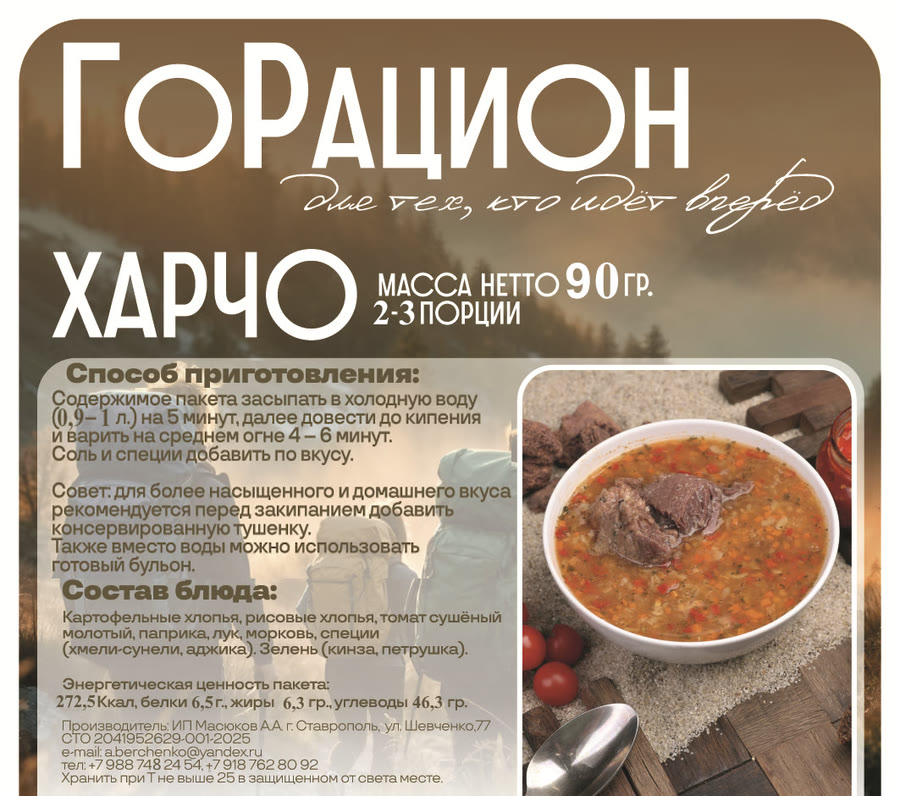
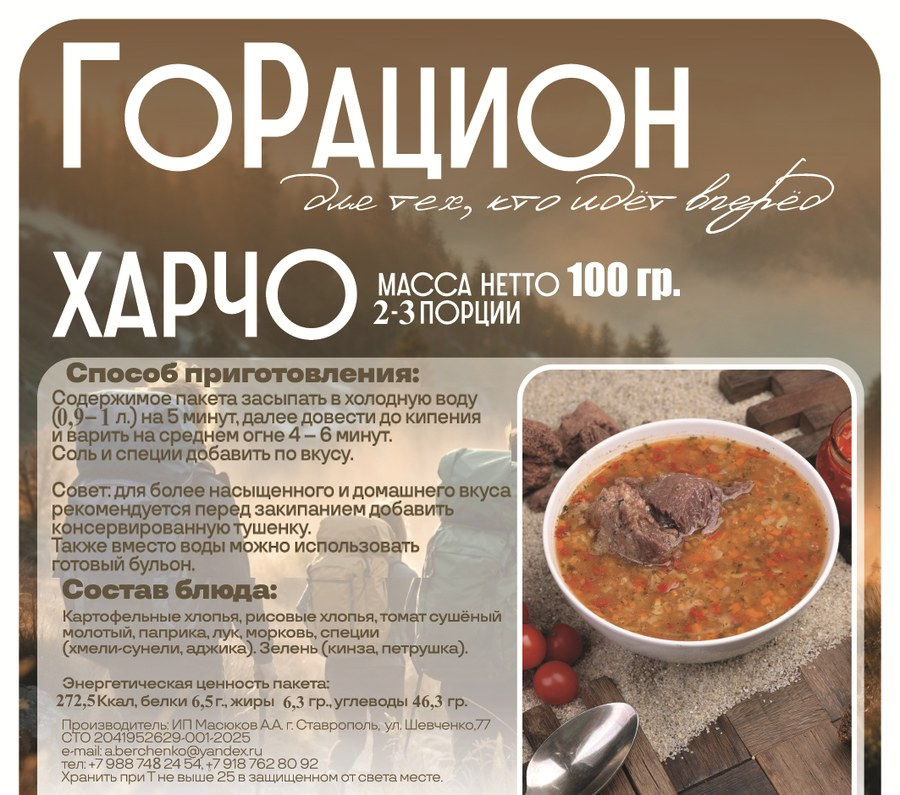
Фотогалерея 29 фото, новая этикетка харчо 100 г

Changed region(s): [[0.6222, 0.3321, 0.7467, 0.3925]]

diff --git a/index.html b/index.html
@@ -172,12 +172,45 @@
     </div>
     <div class="trips">
       <h3 class="trips-h">Команда ГоРацион в походах</h3>
-      <ul class="trips-grid">
-        <li><img src="assets/photo/team-1.jpg" width="1000" height="750" alt="Туристы в изморози после ночи в горах" loading="lazy"></li>
-        <li><img src="assets/photo/team-2.jpg" width="1000" height="750" alt="Трое туристов с рюкзаками идут по тропе" loading="lazy"></li>
-        <li><img src="assets/photo/team-3.jpg" width="1000" height="750" alt="Туристы отдыхают на лугу у соснового леса" loading="lazy"></li>
-        <li><img src="assets/photo/team-4.jpg" width="1000" height="750" alt="Туристы готовят еду на горелке в горах" loading="lazy"></li>
+      <ul class="gallery" id="gallery">
+        <li><button type="button" class="g-item" data-full="assets/gallery/g01.jpg" data-w="1800" data-h="798" aria-label="Открыть фото 1 из 29"><img src="assets/gallery/g01-s.jpg" width="720" height="319" alt="Фото из похода команды ГоРацион, 1" loading="lazy"></button></li>
+        <li><button type="button" class="g-item" data-full="assets/gallery/g02.jpg" data-w="1800" data-h="1013" aria-label="Открыть фото 2 из 29"><img src="assets/gallery/g02-s.jpg" width="720" height="405" alt="Фото из похода команды ГоРацион, 2" loading="lazy"></button></li>
+        <li><button type="button" class="g-item" data-full="assets/gallery/g03.jpg" data-w="1800" data-h="1350" aria-label="Открыть фото 3 из 29"><img src="assets/gallery/g03-s.jpg" width="720" height="540" alt="Фото из похода команды ГоРацион, 3" loading="lazy"></button></li>
+        <li><button type="button" class="g-item" data-full="assets/gallery/g04.jpg" data-w="1800" data-h="1350" aria-label="Открыть фото 4 из 29"><img src="assets/gallery/g04-s.jpg" width="720" height="540" alt="Фото из похода команды ГоРацион, 4" loading="lazy"></button></li>
+        <li><button type="button" class="g-item" data-full="assets/gallery/g05.jpg" data-w="1800" data-h="1013" aria-label="Открыть фото 5 из 29"><img src="assets/gallery/g05-s.jpg" width="720" height="405" alt="Фото из похода команды ГоРацион, 5" loading="lazy"></button></li>
+        <li><button type="button" class="g-item" data-full="assets/gallery/g06.jpg" data-w="1800" data-h="1013" aria-label="Открыть фото 6 из 29"><img src="assets/gallery/g06-s.jpg" width="720" height="405" alt="Фото из похода команды ГоРацион, 6" loading="lazy"></button></li>
+        <li><button type="button" class="g-item" data-full="assets/gallery/g07.jpg" data-w="1800" data-h="1013" aria-label="Открыть фото 7 из 29"><img src="assets/gallery/g07-s.jpg" width="720" height="405" alt="Фото из похода команды ГоРацион, 7" loading="lazy"></button></li>
+        <li><button type="button" class="g-item" data-full="assets/gallery/g08.jpg" data-w="1800" data-h="810" aria-label="Открыть фото 8 из 29"><img src="assets/gallery/g08-s.jpg" width="720" height="324" alt="Фото из похода команды ГоРацион, 8" loading="lazy"></button></li>
+        <li><button type="button" class="g-item" data-full="assets/gallery/g09.jpg" data-w="1800" data-h="810" aria-label="Открыть фото 9 из 29"><img src="assets/gallery/g09-s.jpg" width="720" height="324" alt="Фото из похода команды ГоРацион, 9" loading="lazy"></button></li>
+        <li><button type="button" class="g-item" data-full="assets/gallery/g10.jpg" data-w="1800" data-h="810" aria-label="Открыть фото 10 из 29"><img src="assets/gallery/g10-s.jpg" width="720" height="324" alt="Фото из похода команды ГоРацион, 10" loading="lazy"></button></li>
+        <li><button type="button" class="g-item" data-full="assets/gallery/g11.jpg" data-w="1012" data-h="1800" aria-label="Открыть фото 11 из 29"><img src="assets/gallery/g11-s.jpg" width="405" height="720" alt="Фото из похода команды ГоРацион, 11" loading="lazy"></button></li>
+        <li><button type="button" class="g-item" data-full="assets/gallery/g12.jpg" data-w="1800" data-h="1013" aria-label="Открыть фото 12 из 29"><img src="assets/gallery/g12-s.jpg" width="720" height="405" alt="Фото из похода команды ГоРацион, 12" loading="lazy"></button></li>
+        <li class="g-more"><button type="button" class="g-item" data-full="assets/gallery/g13.jpg" data-w="1800" data-h="1013" aria-label="Открыть фото 13 из 29"><img src="assets/gallery/g13-s.jpg" width="720" height="405" alt="Фото из похода команды ГоРацион, 13" loading="lazy"></button></li>
+        <li class="g-more"><button type="button" class="g-item" data-full="assets/gallery/g14.jpg" data-w="1800" data-h="1013" aria-label="Открыть фото 14 из 29"><img src="assets/gallery/g14-s.jpg" width="720" height="405" alt="Фото из похода команды ГоРацион, 14" loading="lazy"></button></li>
+        <li class="g-more"><button type="button" class="g-item" data-full="assets/gallery/g15.jpg" data-w="1800" data-h="798" aria-label="Открыть фото 15 из 29"><img src="assets/gallery/g15-s.jpg" width="720" height="319" alt="Фото из похода команды ГоРацион, 15" loading="lazy"></button></li>
+        <li class="g-more"><button type="button" class="g-item" data-full="assets/gallery/g16.jpg" data-w="1800" data-h="1013" aria-label="Открыть фото 16 из 29"><img src="assets/gallery/g16-s.jpg" width="720" height="405" alt="Фото из похода команды ГоРацион, 16" loading="lazy"></button></li>
+        <li class="g-more"><button type="button" class="g-item" data-full="assets/gallery/g17.jpg" data-w="1800" data-h="1013" aria-label="Открыть фото 17 из 29"><img src="assets/gallery/g17-s.jpg" width="720" height="405" alt="Фото из похода команды ГоРацион, 17" loading="lazy"></button></li>
+        <li class="g-more"><button type="button" class="g-item" data-full="assets/gallery/g18.jpg" data-w="1800" data-h="1013" aria-label="Открыть фото 18 из 29"><img src="assets/gallery/g18-s.jpg" width="720" height="405" alt="Фото из похода команды ГоРацион, 18" loading="lazy"></button></li>
+        <li class="g-more"><button type="button" class="g-item" data-full="assets/gallery/g19.jpg" data-w="1800" data-h="1013" aria-label="Открыть фото 19 из 29"><img src="assets/gallery/g19-s.jpg" width="720" height="405" alt="Фото из похода команды ГоРацион, 19" loading="lazy"></button></li>
+        <li class="g-more"><button type="button" class="g-item" data-full="assets/gallery/g20.jpg" data-w="1800" data-h="1013" aria-label="Открыть фото 20 из 29"><img src="assets/gallery/g20-s.jpg" width="720" height="405" alt="Фото из похода команды ГоРацион, 20" loading="lazy"></button></li>
+        <li class="g-more"><button type="button" class="g-item" data-full="assets/gallery/g21.jpg" data-w="1800" data-h="1013" aria-label="Открыть фото 21 из 29"><img src="assets/gallery/g21-s.jpg" width="720" height="405" alt="Фото из похода команды ГоРацион, 21" loading="lazy"></button></li>
+        <li class="g-more"><button type="button" class="g-item" data-full="assets/gallery/g22.jpg" data-w="1800" data-h="1013" aria-label="Открыть фото 22 из 29"><img src="assets/gallery/g22-s.jpg" width="720" height="405" alt="Фото из похода команды ГоРацион, 22" loading="lazy"></button></li>
+        <li class="g-more"><button type="button" class="g-item" data-full="assets/gallery/g23.jpg" data-w="1800" data-h="1013" aria-label="Открыть фото 23 из 29"><img src="assets/gallery/g23-s.jpg" width="720" height="405" alt="Фото из похода команды ГоРацион, 23" loading="lazy"></button></li>
+        <li class="g-more"><button type="button" class="g-item" data-full="assets/gallery/g24.jpg" data-w="1800" data-h="1013" aria-label="Открыть фото 24 из 29"><img src="assets/gallery/g24-s.jpg" width="720" height="405" alt="Фото из похода команды ГоРацион, 24" loading="lazy"></button></li>
+        <li class="g-more"><button type="button" class="g-item" data-full="assets/gallery/g25.jpg" data-w="1800" data-h="1350" aria-label="Открыть фото 25 из 29"><img src="assets/gallery/g25-s.jpg" width="720" height="540" alt="Фото из похода команды ГоРацион, 25" loading="lazy"></button></li>
+        <li class="g-more"><button type="button" class="g-item" data-full="assets/gallery/g26.jpg" data-w="1800" data-h="1013" aria-label="Открыть фото 26 из 29"><img src="assets/gallery/g26-s.jpg" width="720" height="405" alt="Фото из похода команды ГоРацион, 26" loading="lazy"></button></li>
+        <li class="g-more"><button type="button" class="g-item" data-full="assets/gallery/g27.jpg" data-w="1800" data-h="1013" aria-label="Открыть фото 27 из 29"><img src="assets/gallery/g27-s.jpg" width="720" height="405" alt="Фото из похода команды ГоРацион, 27" loading="lazy"></button></li>
+        <li class="g-more"><button type="button" class="g-item" data-full="assets/gallery/g28.jpg" data-w="1800" data-h="1013" aria-label="Открыть фото 28 из 29"><img src="assets/gallery/g28-s.jpg" width="720" height="405" alt="Фото из похода команды ГоРацион, 28" loading="lazy"></button></li>
+        <li class="g-more"><button type="button" class="g-item" data-full="assets/gallery/g29.jpg" data-w="1800" data-h="1013" aria-label="Открыть фото 29 из 29"><img src="assets/gallery/g29-s.jpg" width="720" height="405" alt="Фото из похода команды ГоРацион, 29" loading="lazy"></button></li>
       </ul>
+      <button type="button" class="btn btn-glass gallery-more" id="galleryMore">Показать все фото (29)</button>
+    </div>
+    <div class="lightbox" id="lightbox" hidden role="dialog" aria-modal="true" aria-label="Просмотр фото">
+      <button type="button" class="lb-close" id="lbClose" aria-label="Закрыть">&times;</button>
+      <button type="button" class="lb-nav lb-prev" id="lbPrev" aria-label="Предыдущее фото">&#8249;</button>
+      <img id="lbImg" alt="">
+      <button type="button" class="lb-nav lb-next" id="lbNext" aria-label="Следующее фото">&#8250;</button>
+      <p class="lb-count" id="lbCount"></p>
     </div>
   </div>
 </section>

diff --git a/style.css b/style.css
@@ -360,3 +360,25 @@ button.size.is-on{border-color:var(--color-pine)}
 .hero-in>.hero-offer{order:4;align-self:center;margin:14px 20px 96px;padding:.5em 1.3em .45em;border-radius:99px;background:rgba(255,255,255,.16);border:1px solid rgba(255,255,255,.45);color:#fff;font-family:var(--font-display);font-size:1.35rem;line-height:1.15;text-align:center;backdrop-filter:blur(6px);-webkit-backdrop-filter:blur(6px)}
 .hero-offer b{color:var(--color-gold);font-weight:700}
 @media (max-width:520px){.hero-in>.hero-offer{font-size:1.15rem;margin:12px 14px 100px}}
+
+/* фотогалерея */
+.gallery{column-count:4;column-gap:12px}
+.gallery li{break-inside:avoid;margin-bottom:12px}
+.gallery li.g-more{display:none}
+.gallery.is-open li.g-more{display:block}
+.g-item{display:block;width:100%;padding:0;border:0;background:none;cursor:zoom-in;border-radius:14px;overflow:hidden;box-shadow:0 14px 28px -20px rgba(11,47,39,.6)}
+.g-item img{width:100%;height:auto;display:block;transition:transform .5s var(--ease-out)}
+.g-item:hover img{transform:scale(1.04)}
+.gallery-more{margin-top:10px;background:var(--color-pine);color:#fff}
+.gallery-more[hidden]{display:none}
+.lightbox{position:fixed;inset:0;z-index:200;background:rgba(7,22,18,.94);display:flex;align-items:center;justify-content:center;padding:clamp(10px,3vw,40px)}
+.lightbox[hidden]{display:none}
+.lightbox img{max-width:100%;max-height:100%;width:auto;height:auto;object-fit:contain;border-radius:8px}
+.lb-close,.lb-nav{position:absolute;border:0;background:rgba(255,255,255,.14);color:#fff;cursor:pointer;line-height:1;border-radius:50%;width:48px;height:48px;font-size:2rem}
+.lb-close{top:14px;right:14px}
+.lb-nav{top:50%;transform:translateY(-50%)}
+.lb-prev{left:14px}.lb-next{right:14px}
+.lb-close:hover,.lb-nav:hover{background:rgba(255,255,255,.28)}
+.lb-count{position:absolute;bottom:14px;left:0;right:0;text-align:center;color:#cfe0d8;font-family:var(--font-display);font-size:1.2rem}
+@media (max-width:900px){.gallery{column-count:3}}
+@media (max-width:520px){.gallery{column-count:2;column-gap:8px}.gallery li{margin-bottom:8px}.lb-nav{width:40px;height:40px}}

diff --git a/main.js b/main.js
@@ -153,5 +153,40 @@
     soundBtn.querySelector('span').textContent = on ? 'Выключить звук' : 'Включить звук';
     if (on && video.paused && !userPaused) video.play();
   });
+
+  // фотогалерея с увеличением
+  var gal = $('#gallery');
+  if (gal) {
+    var gItems = $$('.g-item', gal), gMore = $('#galleryMore');
+    var lb = $('#lightbox'), lbImg = $('#lbImg'), lbCount = $('#lbCount'), gi = 0;
+    if (gMore) gMore.addEventListener('click', function () { gal.classList.add('is-open'); gMore.hidden = true; });
+    function lbShow(i) {
+      gi = (i + gItems.length) % gItems.length;
+      var b = gItems[gi];
+      lbImg.src = b.dataset.full;
+      lbImg.alt = $('img', b).alt;
+      lbCount.textContent = (gi + 1) + ' из ' + gItems.length;
+    }
+    function lbOpen(i) { lb.hidden = false; document.body.style.overflow = 'hidden'; lbShow(i); }
+    function lbClose() { lb.hidden = true; lbImg.removeAttribute('src'); document.body.style.overflow = ''; }
+    gItems.forEach(function (b, i) { b.addEventListener('click', function () { lbOpen(i); }); });
+    $('#lbClose').addEventListener('click', lbClose);
+    $('#lbPrev').addEventListener('click', function () { lbShow(gi - 1); });
+    $('#lbNext').addEventListener('click', function () { lbShow(gi + 1); });
+    lb.addEventListener('click', function (e) { if (e.target === lb) lbClose(); });
+    document.addEventListener('keydown', function (e) {
+      if (lb.hidden) return;
+      if (e.key === 'Escape') lbClose();
+      else if (e.key === 'ArrowLeft') lbShow(gi - 1);
+      else if (e.key === 'ArrowRight') lbShow(gi + 1);
+    });
+    var tx = null;
+    lb.addEventListener('touchstart', function (e) { tx = e.touches[0].clientX; }, { passive: true });
+    lb.addEventListener('touchend', function (e) {
+      if (tx === null) return;
+      var dx = e.changedTouches[0].clientX - tx; tx = null;
+      if (Math.abs(dx) > 50) lbShow(gi + (dx < 0 ? 1 : -1));
+    });
+  }
   setDish('borsch', false);
 })();
